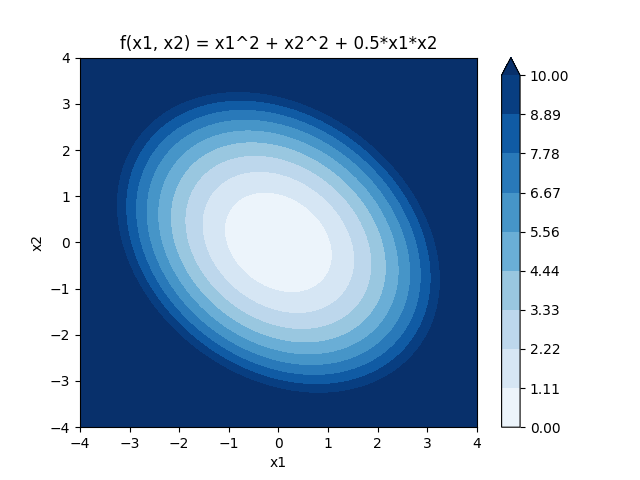
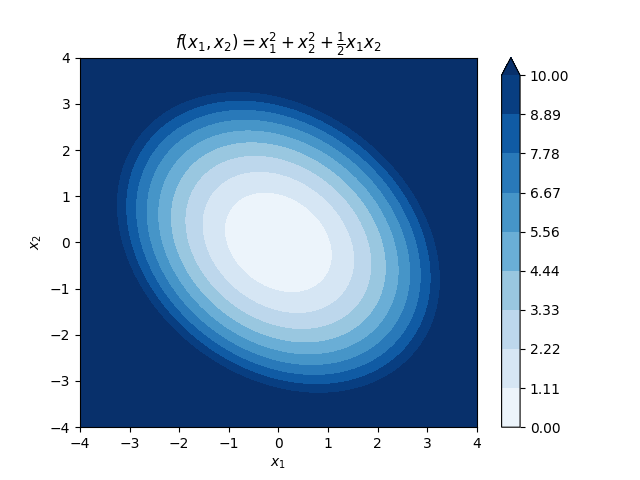
lec_04 content

Changed region(s): [[0.1875, 0.0625, 0.6875, 0.125], [0.4062, 0.9375, 0.4375, 0.9688], [0.0312, 0.5, 0.0625, 0.5312]]

diff --git a/lec_04/lec_04.py b/lec_04/lec_04.py
@@ -10,10 +10,10 @@ x = np.linspace(-10, 10, 100)
 y = f(x)
 
 plt.plot(x, y)
-plt.xlabel('x')
-plt.ylabel('f(x)')
-plt.title('f(x) = 2x^2 + 3x + 4')
-plt.savefig('lec_04_01.png')
+plt.xlabel('$x$')
+plt.ylabel('$f(x)$')
+plt.title('$f(x) = 2x^2 + 3x + 4$')
+plt.savefig('f_x.png')
 plt.close()
 
 # define the derivative of f(x)
@@ -72,20 +72,20 @@ plt.colorbar(cfp)
 # set colour axis limit to [0,10]
 plt.clim(0, 10)
 
-plt.xlabel('x1')
-plt.ylabel('x2')
-plt.title('f(x1, x2) = x1^2 + x2^2 + 0.5*x1*x2')
+plt.xlabel('$x_1$')
+plt.ylabel('$x_2$')
+plt.title('$f(x_1, x_2) = x_1^2 + x_2^2 + \\frac{1}{2} x_1 x_2$')
 plt.savefig('contour.png')
 
 # plot the function in 3D
 fig = plt.figure()
 ax = fig.add_subplot(111, projection='3d')
 ax.plot_surface(X1, X2, Y)
-ax.set_xlabel('x1')
-ax.set_ylabel('x2')
-ax.set_zlabel('f(x1, x2)')
-plt.title('f(x1, x2) = x1^2 + x2^2 + 0.5*x1*x2')
-plt.savefig('lec_04_02.png')
+ax.set_xlabel('$x_1$')
+ax.set_ylabel('$x_2$')
+ax.set_zlabel('$f(x_1, x_2)$')
+plt.title('$f(x_1, x_2) = x_1^2 + x_2^2 + \\frac{1}{2} x_1 x_2$')
+plt.savefig('3D_plot.png')
 
 
 dir_decsent = -grad_f2(1, 1) # steepeset descent direction
